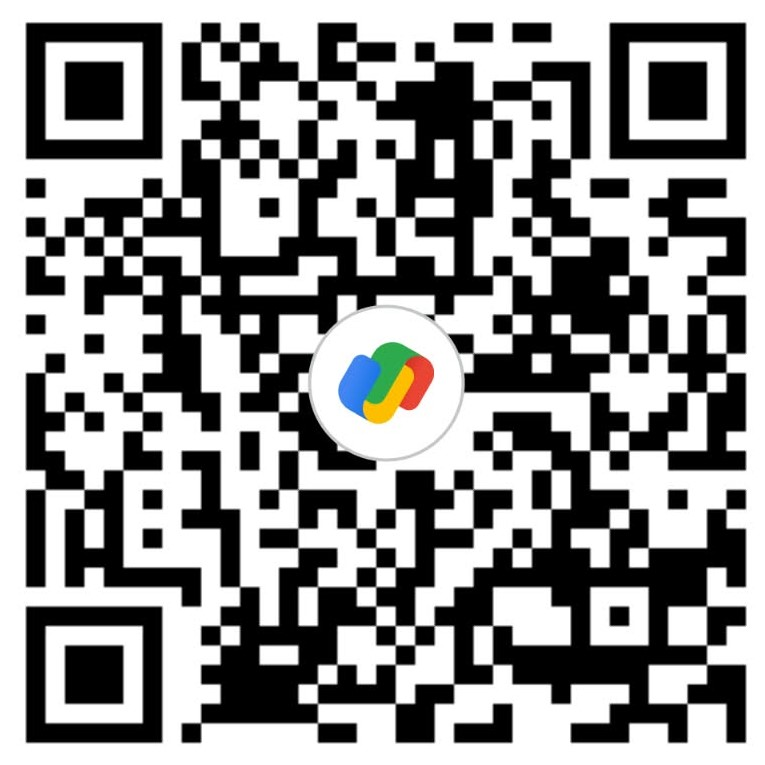
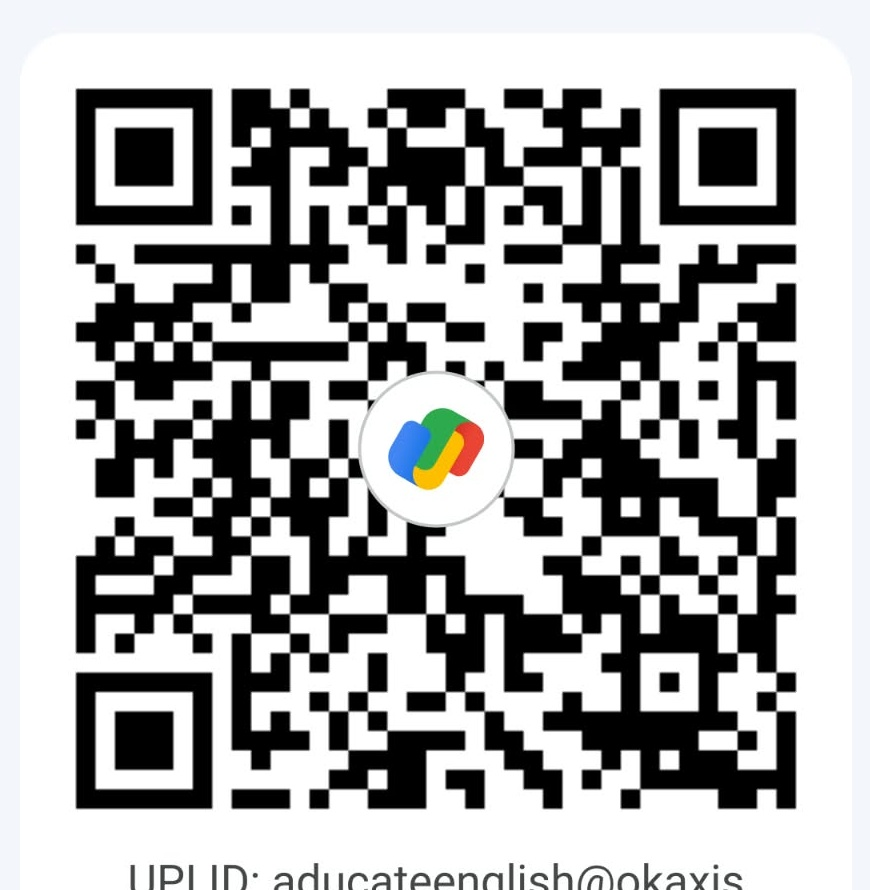
up

diff --git a/public/earn.html b/public/earn.html
@@ -3748,8 +3748,8 @@ function openAddonsCenter(){
       </div>
       <div class="book-upi-card">
         <div class="book-pay-title">📲 Pay with UPI</div>
-        <a class="book-upi-btn" href="upi://pay?pa=baa836610%40okaxis&pn=A%20Ba&am=499.00&cu=INR&tn=Aducate%20English%20Book">Open UPI App • Pay ₹499</a>
-        <div class="book-upi-id"><span>UPI ID</span><b id="bookUpiId">baa836610@okaxis</b><button type="button" onclick="copyBookUpi()">Copy</button></div>
+        <a class="book-upi-btn" href="upi://pay?pa=aducateenglish%40okaxis&pn=Aducate%20English&am=499.00&cu=INR&tn=Aducate%20English%20Book">Open UPI App • Pay ₹499</a>
+        <div class="book-upi-id"><span>UPI ID</span><b id="bookUpiId">aducateenglish@okaxis</b><button type="button" onclick="copyBookUpi()">Copy</button></div>
         <div class="book-pay-caption">After payment, enter your UTR / Transaction ID below.</div>
       </div>
     </div>
@@ -3806,7 +3806,7 @@ async function bookApi(path, options={}){
   return data;
 }
 async function copyBookUpi(){
-  const upi=document.getElementById('bookUpiId')?.textContent?.trim()||'baa836610@okaxis';
+  const upi=document.getElementById('bookUpiId')?.textContent?.trim()||'aducateenglish@okaxis';
   try{await navigator.clipboard.writeText(upi);document.getElementById('bookPurchaseStatus').textContent='✅ UPI ID copied: '+upi;}catch(e){document.getElementById('bookPurchaseStatus').textContent='UPI ID: '+upi;}
 }
 async function openBookPurchase(){
@@ -3969,8 +3969,8 @@ async function submitBookPurchase(){
     <div class="subscription-price">₹200</div>
     <p><b>Step 1:</b> નીચેનો QR scan કરીને ₹200 pay કરો.</p>
     <img class="subscription-qr" src="./payment-qr.jpeg" alt="₹200 payment QR code">
-    <a id="subscriptionUpiBtn" class="subscription-pay-btn" href="upi://pay?pa=baa836610%40okaxis&pn=A%20Ba&am=200.00&cu=INR&tn=English%20App%20Subscription">📲 Pay ₹200 via UPI</a>
-    <div style="font-size:13px;color:#475569;margin:2px 0 10px">UPI ID: <b>baa836610@okaxis</b> · Amount: <b>₹200</b></div>
+    <a id="subscriptionUpiBtn" class="subscription-pay-btn" href="upi://pay?pa=aducateenglish%40okaxis&pn=Aducate%20English&am=200.00&cu=INR&tn=English%20App%20Subscription">📲 Pay ₹200 via UPI</a>
+    <div style="font-size:13px;color:#475569;margin:2px 0 10px">UPI ID: <b>aducateenglish@okaxis</b> · Amount: <b>₹200</b></div>
     <p><b>Step 2:</b> Payment કર્યા પછી UTR / Transaction ID અને payment screenshot upload કરો.</p>
     <input id="subscriptionPaymentReference" class="subscription-input" type="text" maxlength="100" autocomplete="off" placeholder="Enter UTR / Transaction ID">
     <label for="subscriptionPaymentScreenshot" style="display:block;text-align:left;margin-top:10px;font-weight:900;color:#334155">📸 Payment Screenshot</label>
